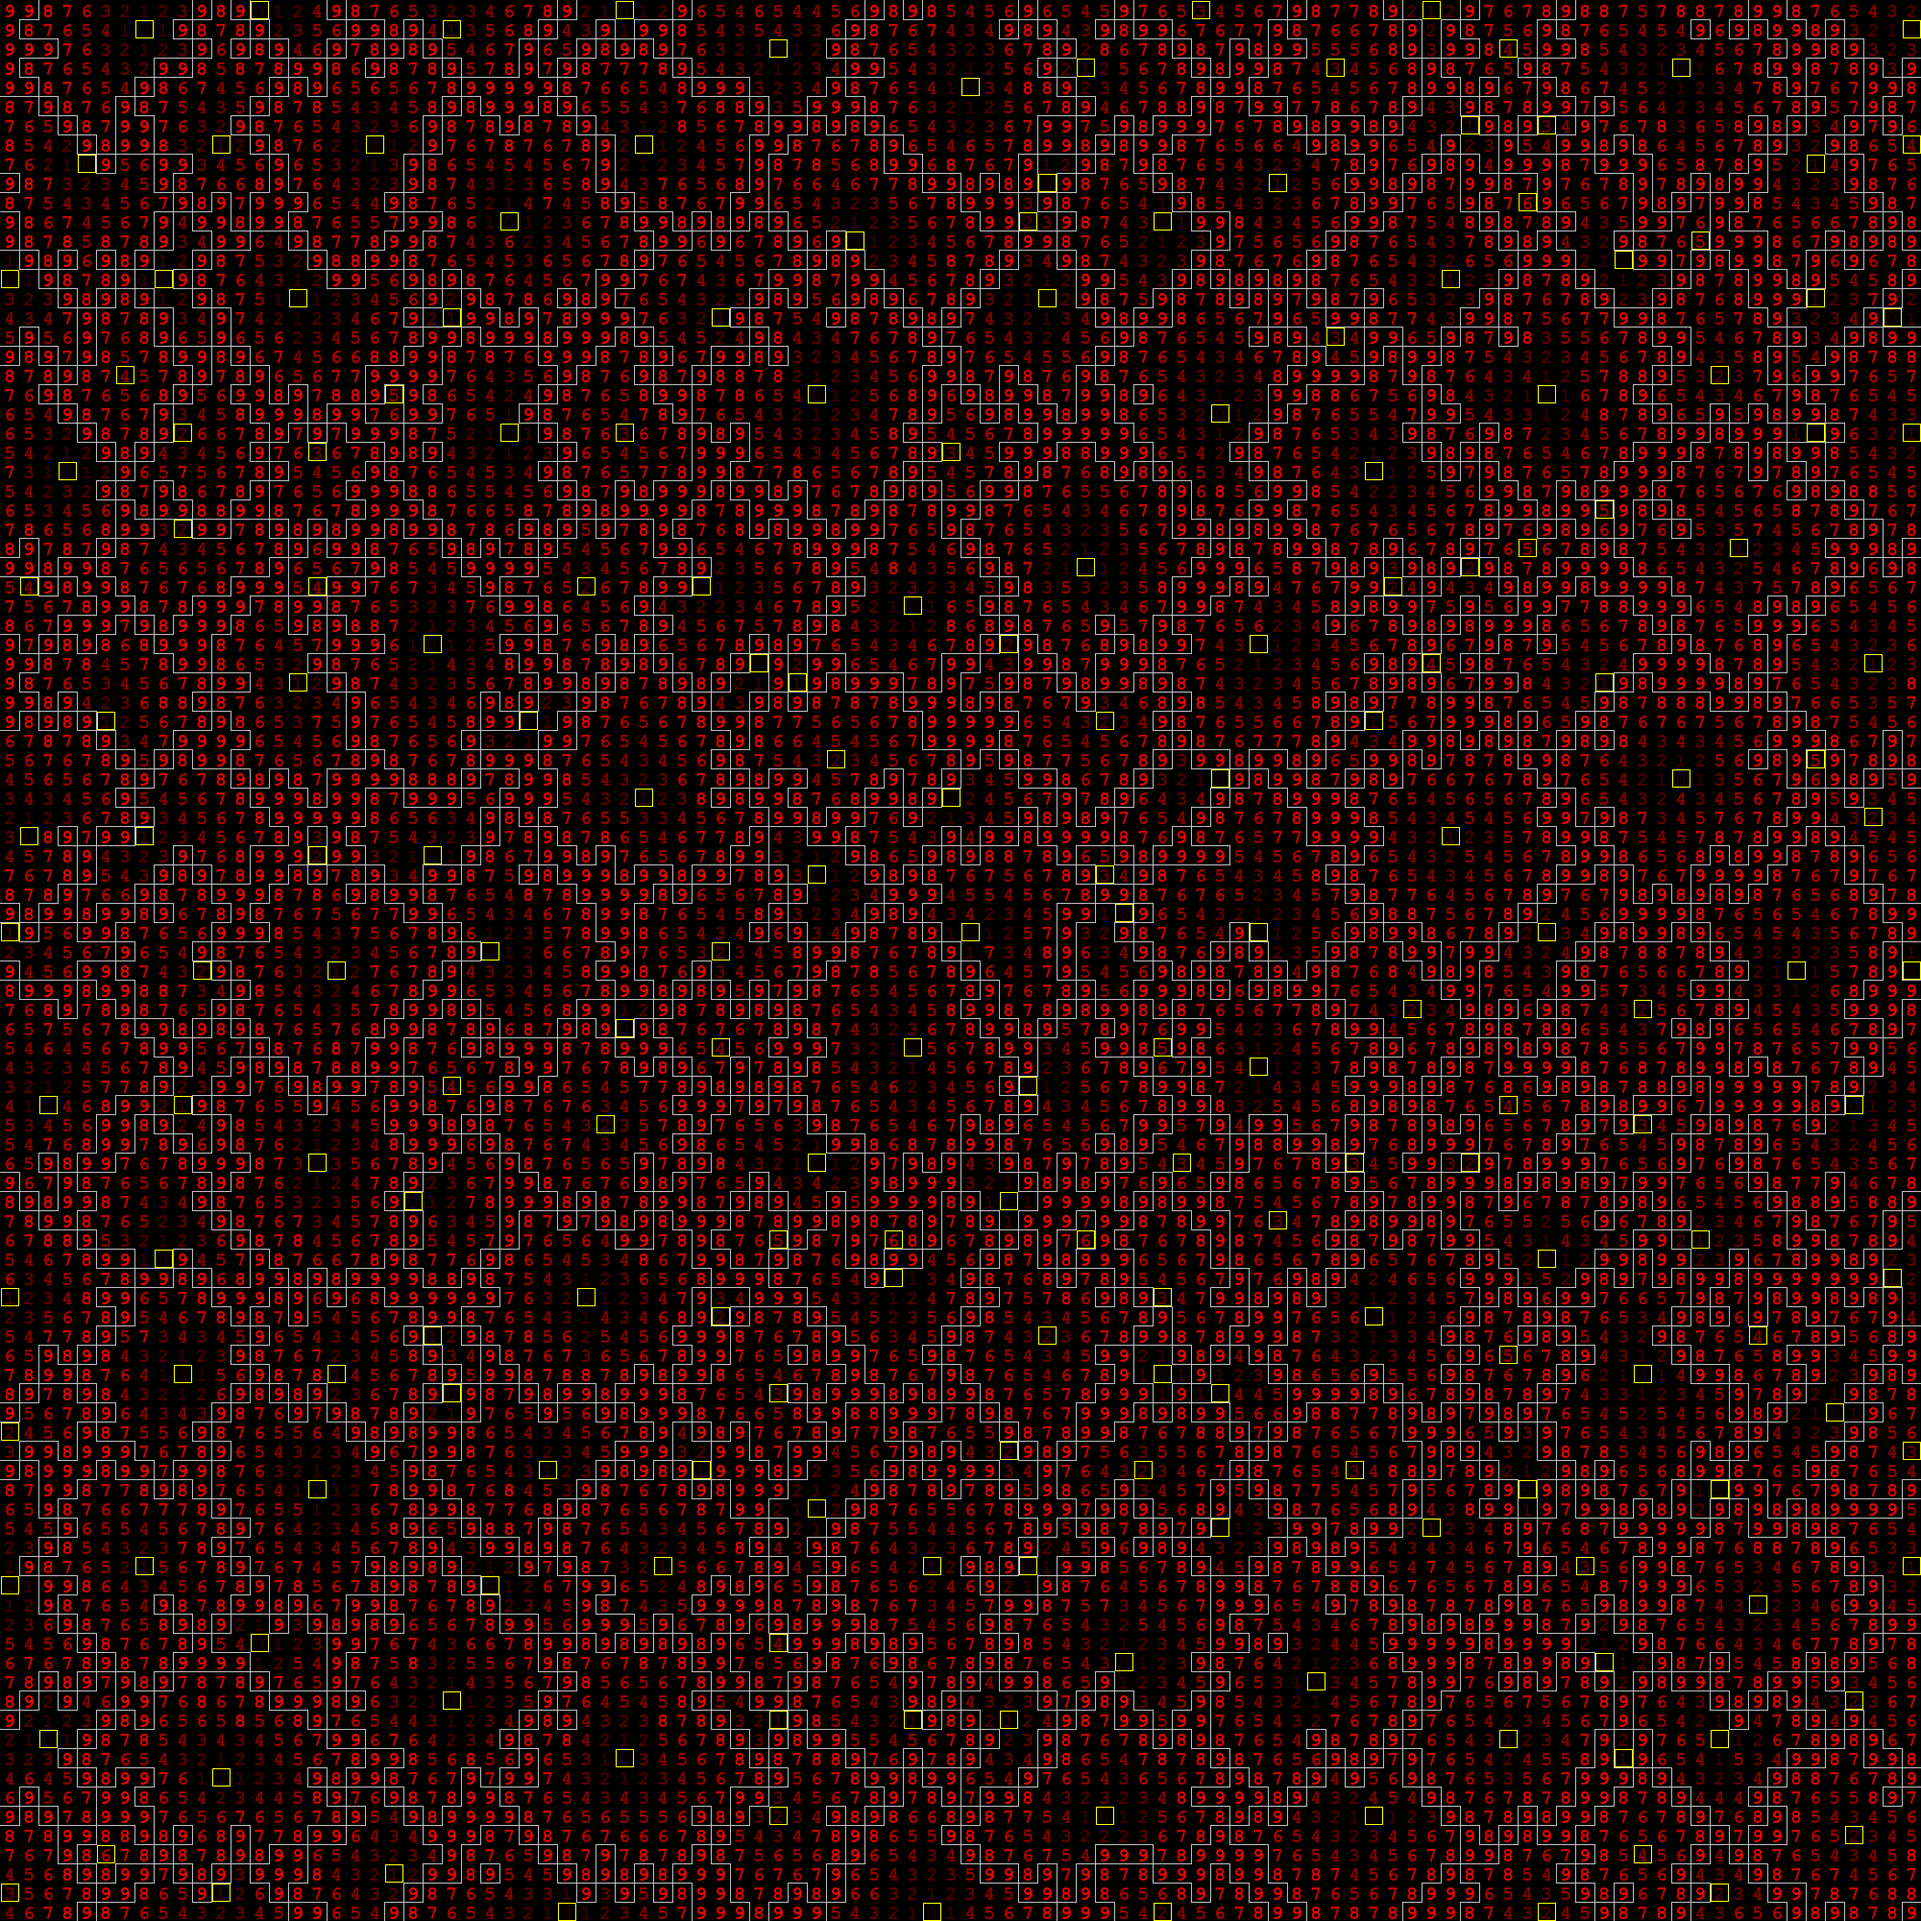
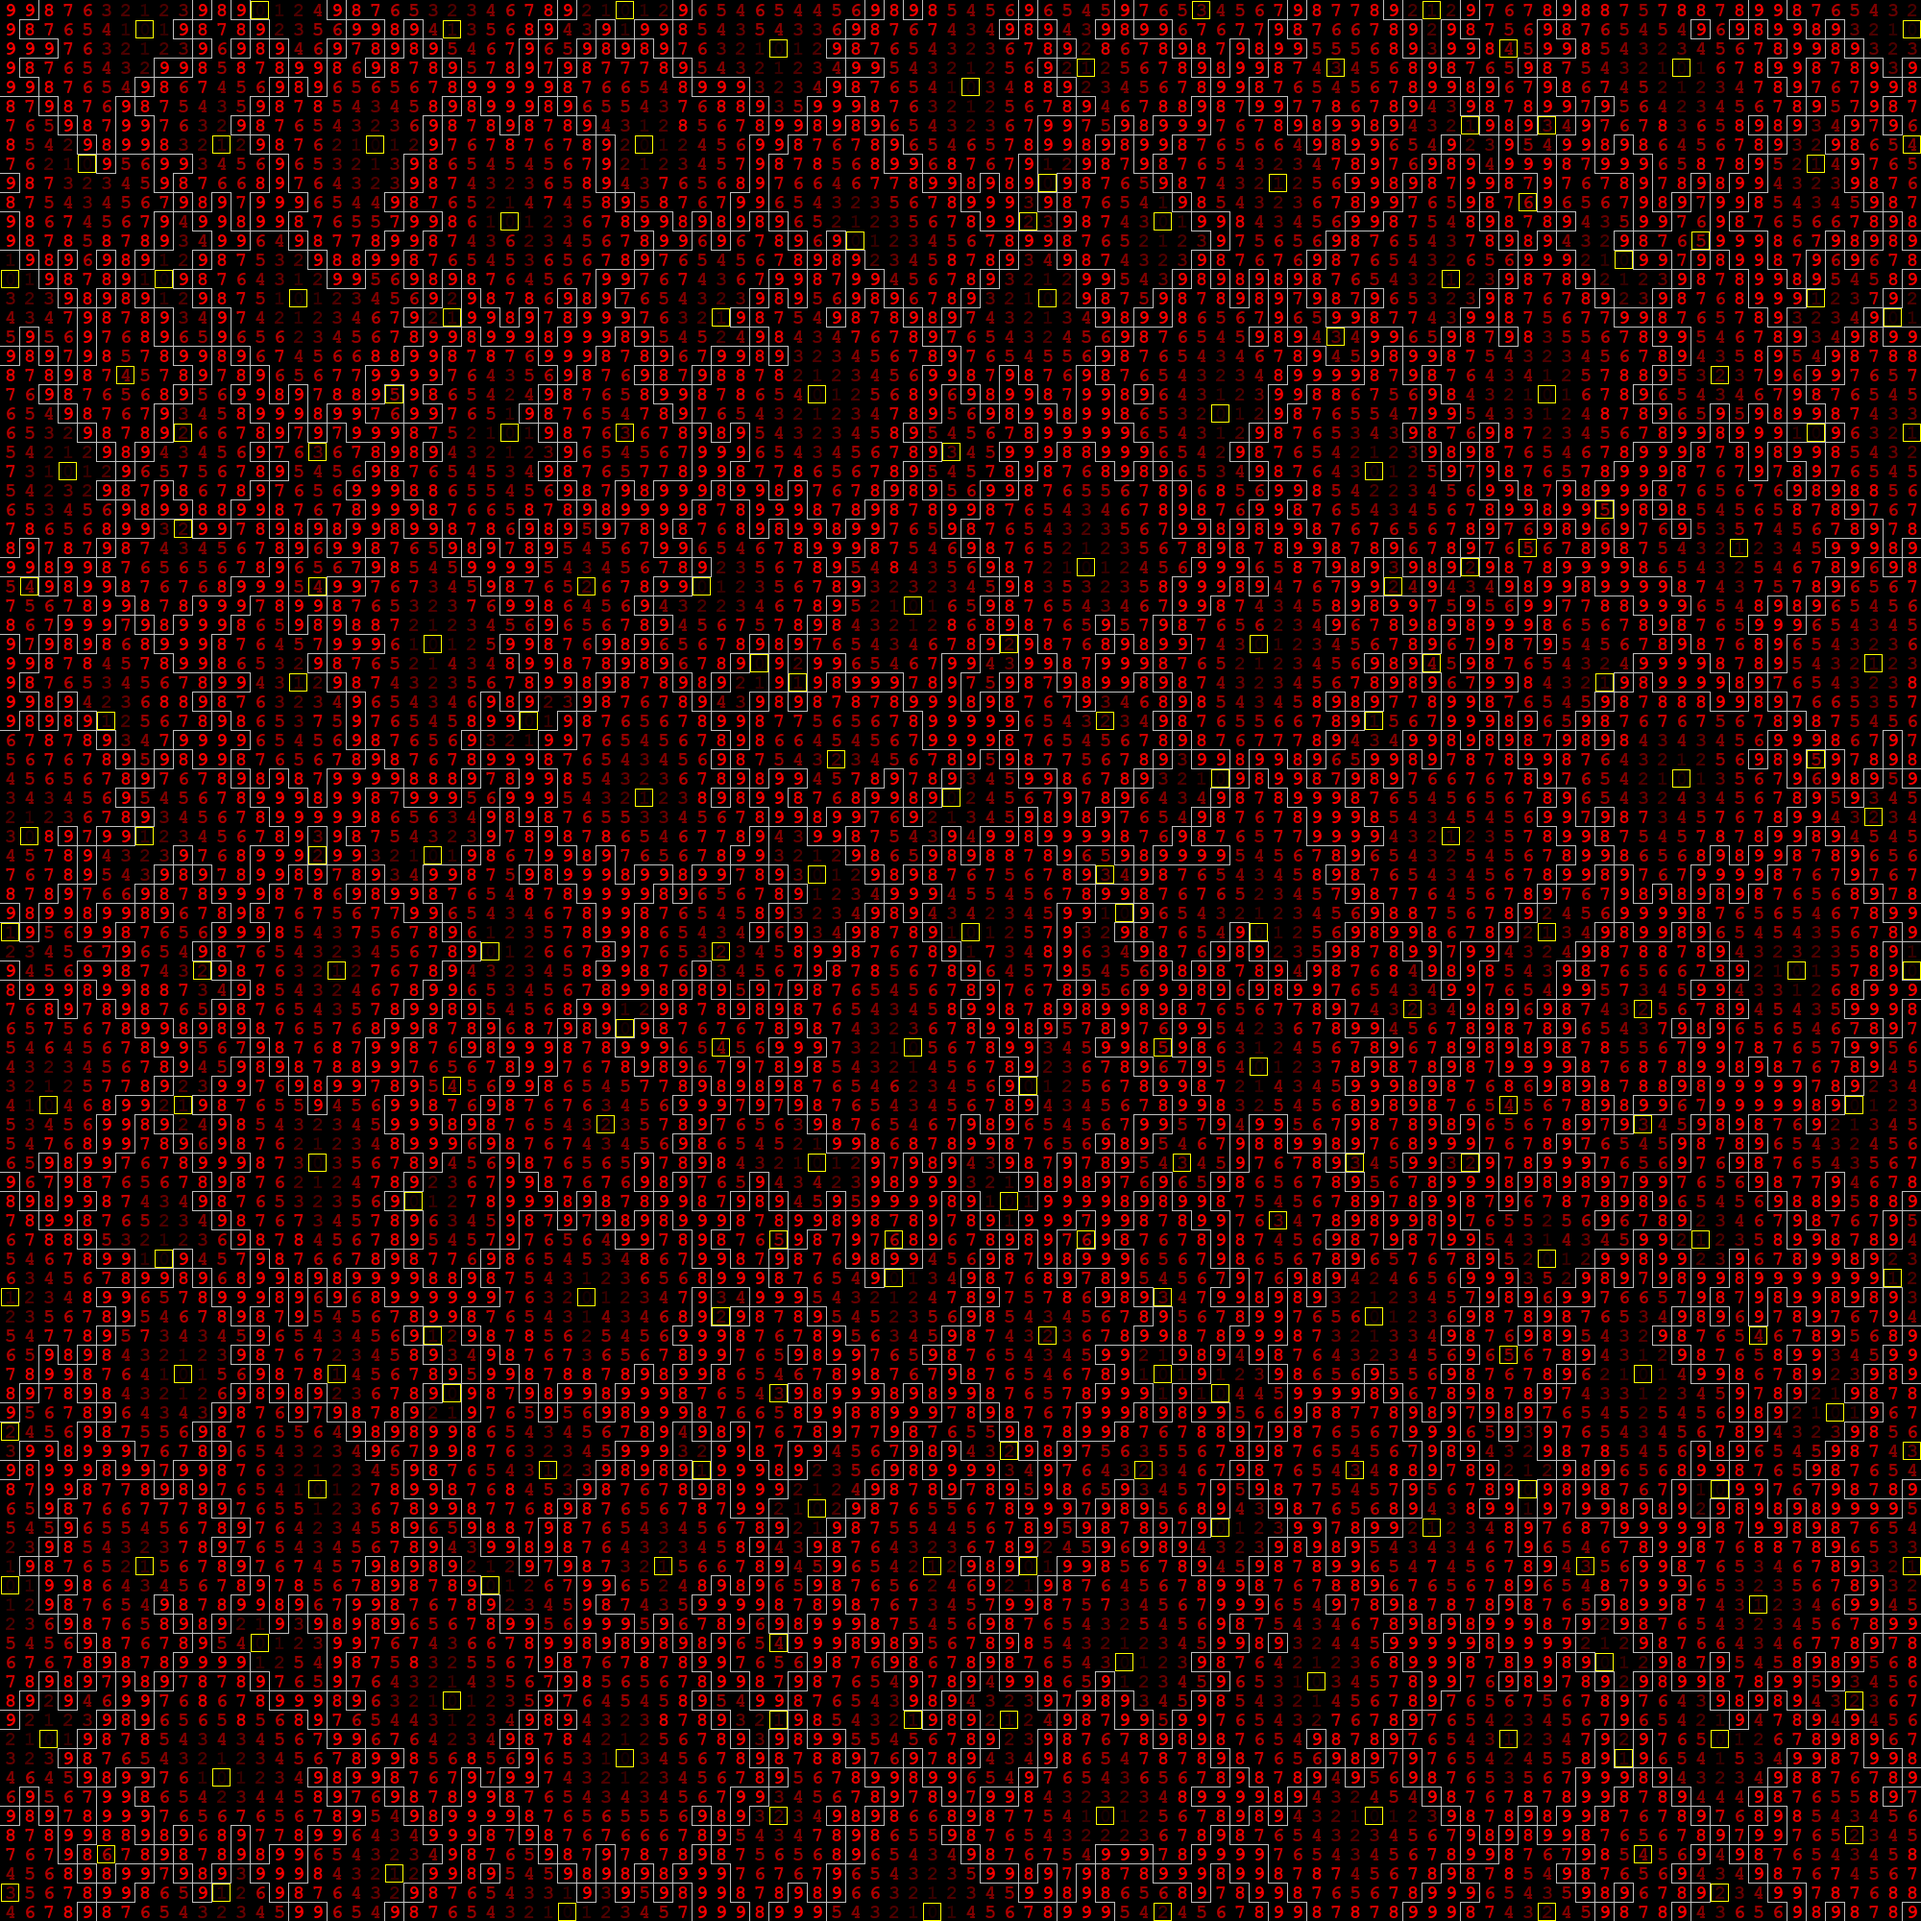
Cosmetic fix

Changed region(s): [[0.0, 0.0, 1.0, 1.0]]

diff --git a/2021/9/9.py b/2021/9/9.py
@@ -84,7 +84,7 @@ def create_image(field):
             t_width, t_height = fnt.getsize(t_string)
             dx, dy = (FONT_SIZE - t_width) // 2, (FONT_SIZE - t_height) // 2
 
-            drw.text((tx + dx, ty + dy), t_string, t_color, font=fnt)
+            drw.text((tx + dx + 1, ty + dy - 1), t_string, t_color, font=fnt)
 
     return img, drw
 # ---------------------------------------------------------------------------------------------------------------------
